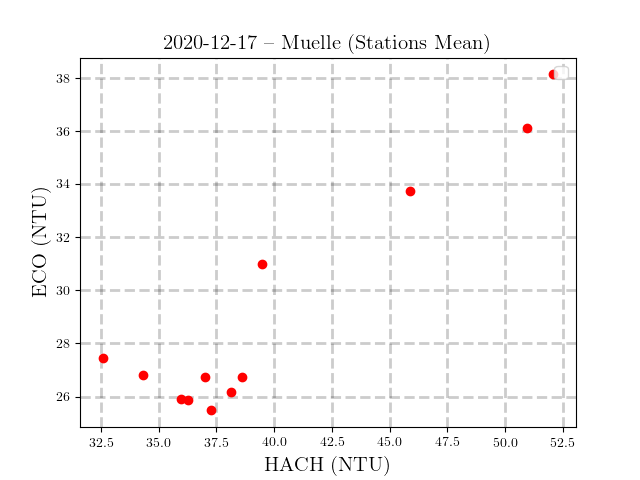
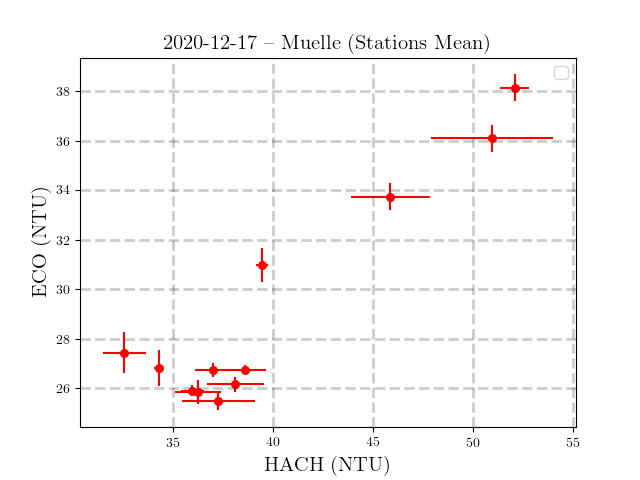
Agregados los errores.

diff --git a/FLNTU/2020-12-19_Muelle.py b/FLNTU/2020-12-19_Muelle.py
@@ -84,7 +84,7 @@ plt.figure()
 
 stations = range(1,13)
 
-plt.plot(ntu_OBS,ntu_ECO, 'o', color='blue', label=r'')
+plt.errorbar(ntu_OBS, ntu_ECO, xerr=ntu_OBS_err, yerr=ntu_ECO_err, fmt='o',color='blue', label=r'', ms=5.5, zorder=0)
 #plt.plot(ntu_HACH,ntu_ECO, 'o', color='red', label=r'HACH')
 
 plt.legend(loc='best', fontsize=LegendSize)
@@ -104,7 +104,7 @@ plt.figure()
 
 stations = range(1,13)
 
-plt.plot(ntu_HACH,ntu_ECO, 'o', color='red', label=r'')
+plt.errorbar(ntu_HACH, ntu_ECO, xerr=ntu_HACH_err, yerr=ntu_ECO_err, fmt='o',color='red', label=r'', ms=5.5, zorder=0)
 
 plt.legend(loc='best', fontsize=LegendSize)
 plt.title(r'2020-12-17 -- Muelle (Stations Mean)', fontsize=TitleSize)
